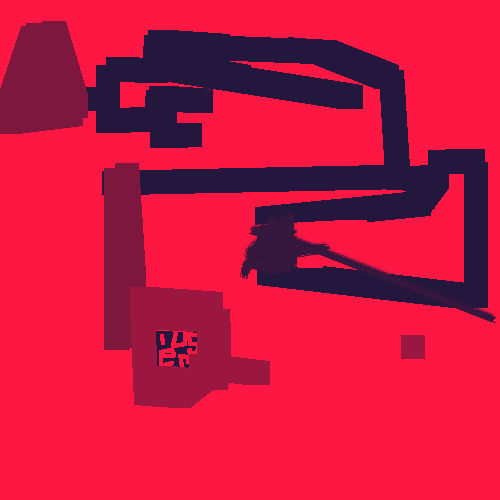
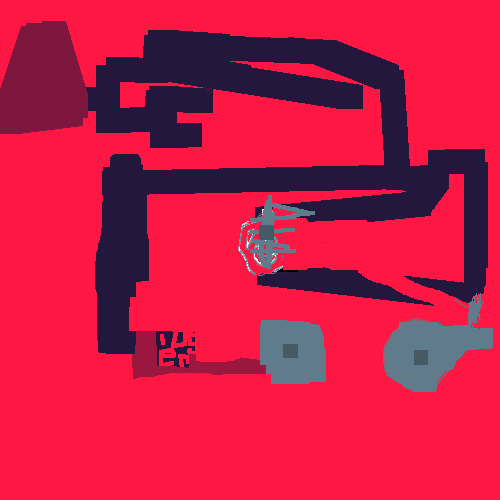
dora es de miedo

Changed region(s): [[0.18, 0.3, 0.66, 0.84], [0.48, 0.39, 0.99, 0.81]]

diff --git a/src/_04_amazing_games/_1_scary_maze/ScaryMaze.java b/src/_04_amazing_games/_1_scary_maze/ScaryMaze.java
@@ -23,12 +23,12 @@ public class ScaryMaze extends JPanel implements Runnable, MouseMotionListener {
 	 * If you cannot play sound on this computer, set canPlaySounds to false.
 	 * If you are not sure, ask your teacher 
 	 * *****************/
-	boolean canPlaySounds = true;
+	boolean canPlaySounds = false;
 	
 	boolean started = false;
 	BufferedImage maze;
-	final int frameWidth = 500;
-	final int frameHeight = 500;
+	int frameWidth = 500;
+	int frameHeight = 500;
 
 	ScaryMaze() throws Exception {
 		
@@ -61,7 +61,7 @@ public class ScaryMaze extends JPanel implements Runnable, MouseMotionListener {
 		//5.  Run your program and move your mouse over the START COLOR. A number will be printed to the console
 		
 		
-		int startColor=0;
+		int startColor=-8579266;
 		//6. Change the value of this startColor variable to the number printed in the previous step. 
 		
 		
@@ -74,10 +74,10 @@ public class ScaryMaze extends JPanel implements Runnable, MouseMotionListener {
 		
 		//7. Make a new int variable for the background color of the maze
 
-		int -8579266
+		int background = -59580;
 		//8. Run the program and move the mouse over the BACKGROUND COLOR. 
 		//   Use the number that is printed to the console to set the background color variable 
-
+		
 		
 		
 		if (started) {
@@ -85,7 +85,9 @@ public class ScaryMaze extends JPanel implements Runnable, MouseMotionListener {
 		
 			//9. If the mouse falls off the path (which means it is on the background color)
 			//		call the scare method - scare();
-			
+			if (background == mouseColor) {
+				scare();
+			}
 			//13.  If the mouse is on the end color, pop up a message to tell them they won!
 			//    (you will need to get the number of the END COLOR by moving the mouse over it)
 
@@ -98,7 +100,7 @@ public class ScaryMaze extends JPanel implements Runnable, MouseMotionListener {
 		
 		//Scare your player with scary messages, sounds and pictures
 		
-		System.out.println("BOO!");
+		System.out.println("Cackle!");
 		
 		if (canPlaySounds) {
 
@@ -113,7 +115,11 @@ public class ScaryMaze extends JPanel implements Runnable, MouseMotionListener {
 
 		//12. Find a scary image and drop it into the _04_amazing_games._1_scary_maze package. 
 		//    Use the showScaryImage method below and send it the name of your picture file
-		
+		showScaryImage("ew scary.jpg");
+		frameWidth = 1300;
+		frameHeight = 956;
+		setPreferredSize(new Dimension(frameWidth, frameHeight));
+		frame.pack();
 		
 	}
 	
@@ -146,15 +152,18 @@ public class ScaryMaze extends JPanel implements Runnable, MouseMotionListener {
 			System.err.println("Could not find this image: " + imageName);
 		}
 		repaint();
+		
 	}
 
 	public static void main(String[] args) throws Exception {
 		SwingUtilities.invokeLater(new ScaryMaze());
 	}
-
+	
+	JFrame frame = new JFrame("Scary Maze");
+	
 	@Override
 	public void run() {
-		JFrame frame = new JFrame("Scary Maze");
+		
 		frame.add(this);
 		setPreferredSize(new Dimension(frameWidth, frameHeight));
 		frame.pack();
